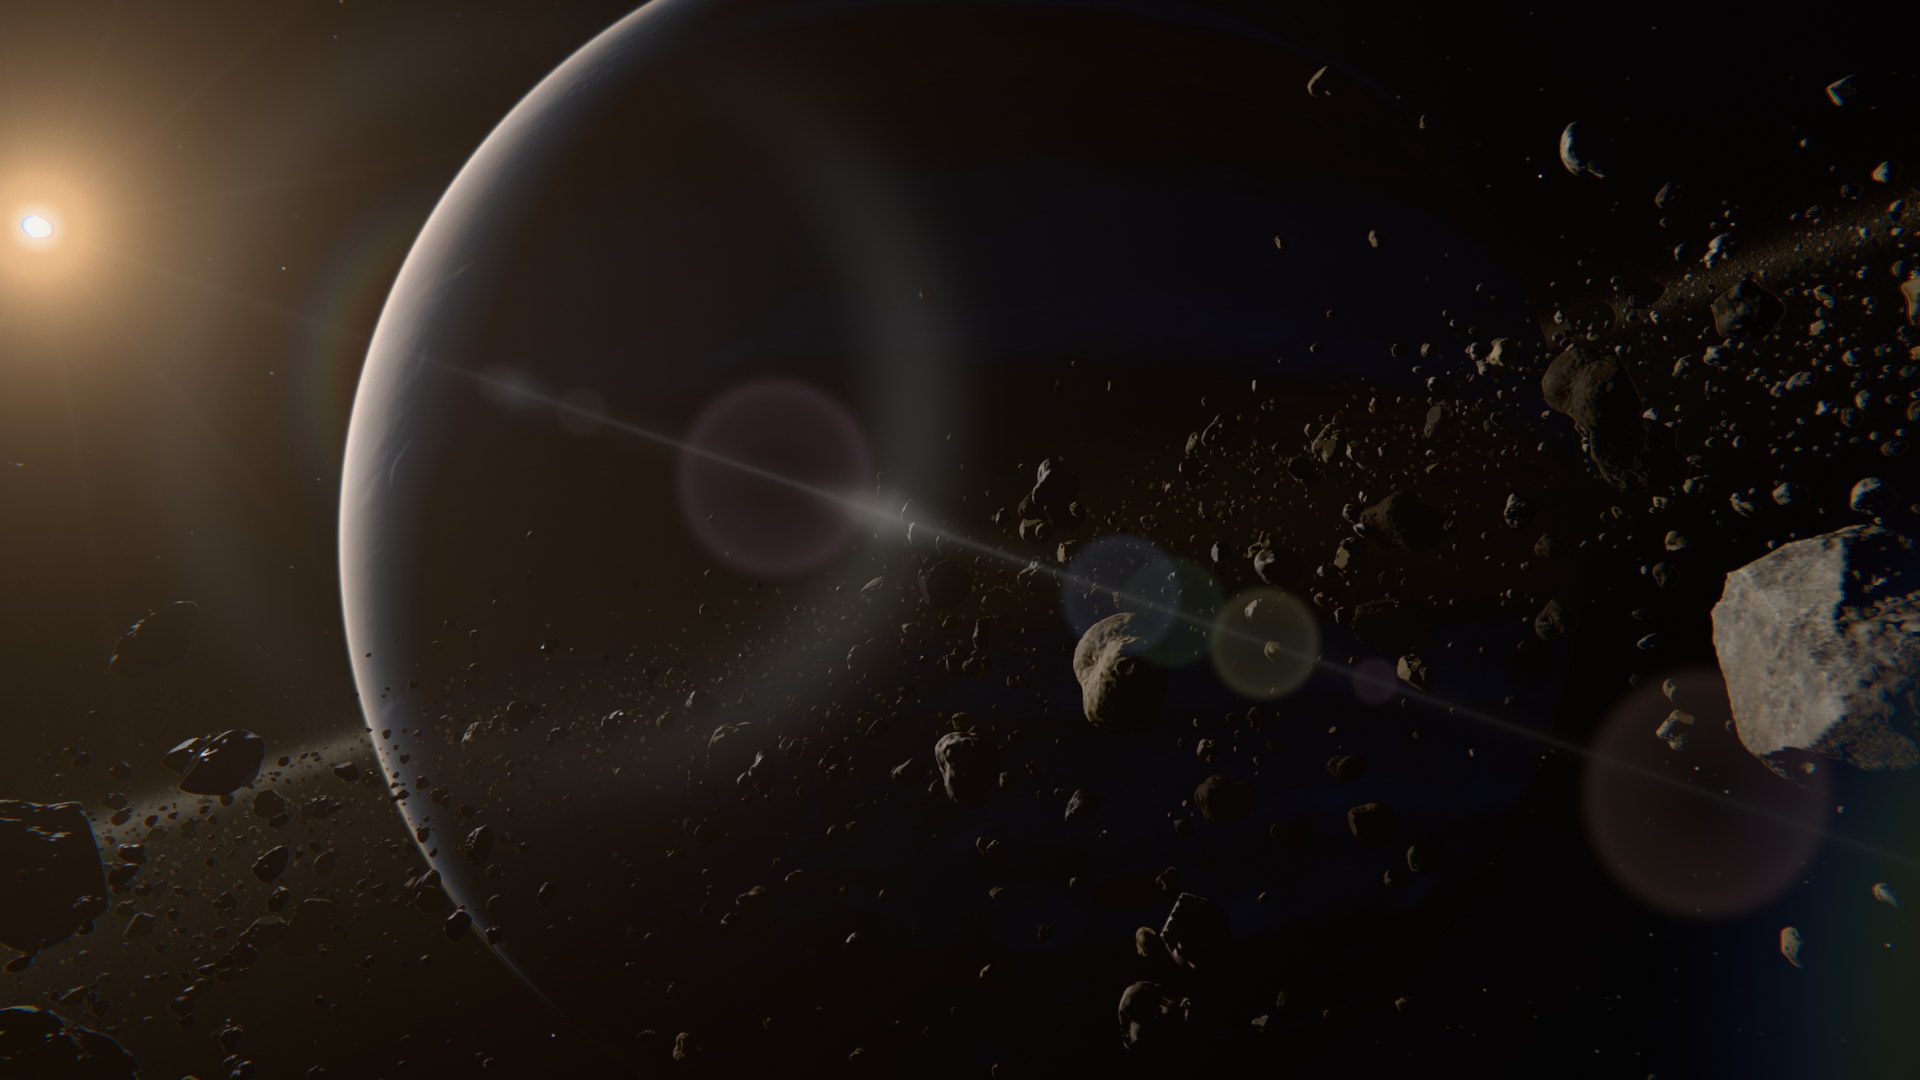
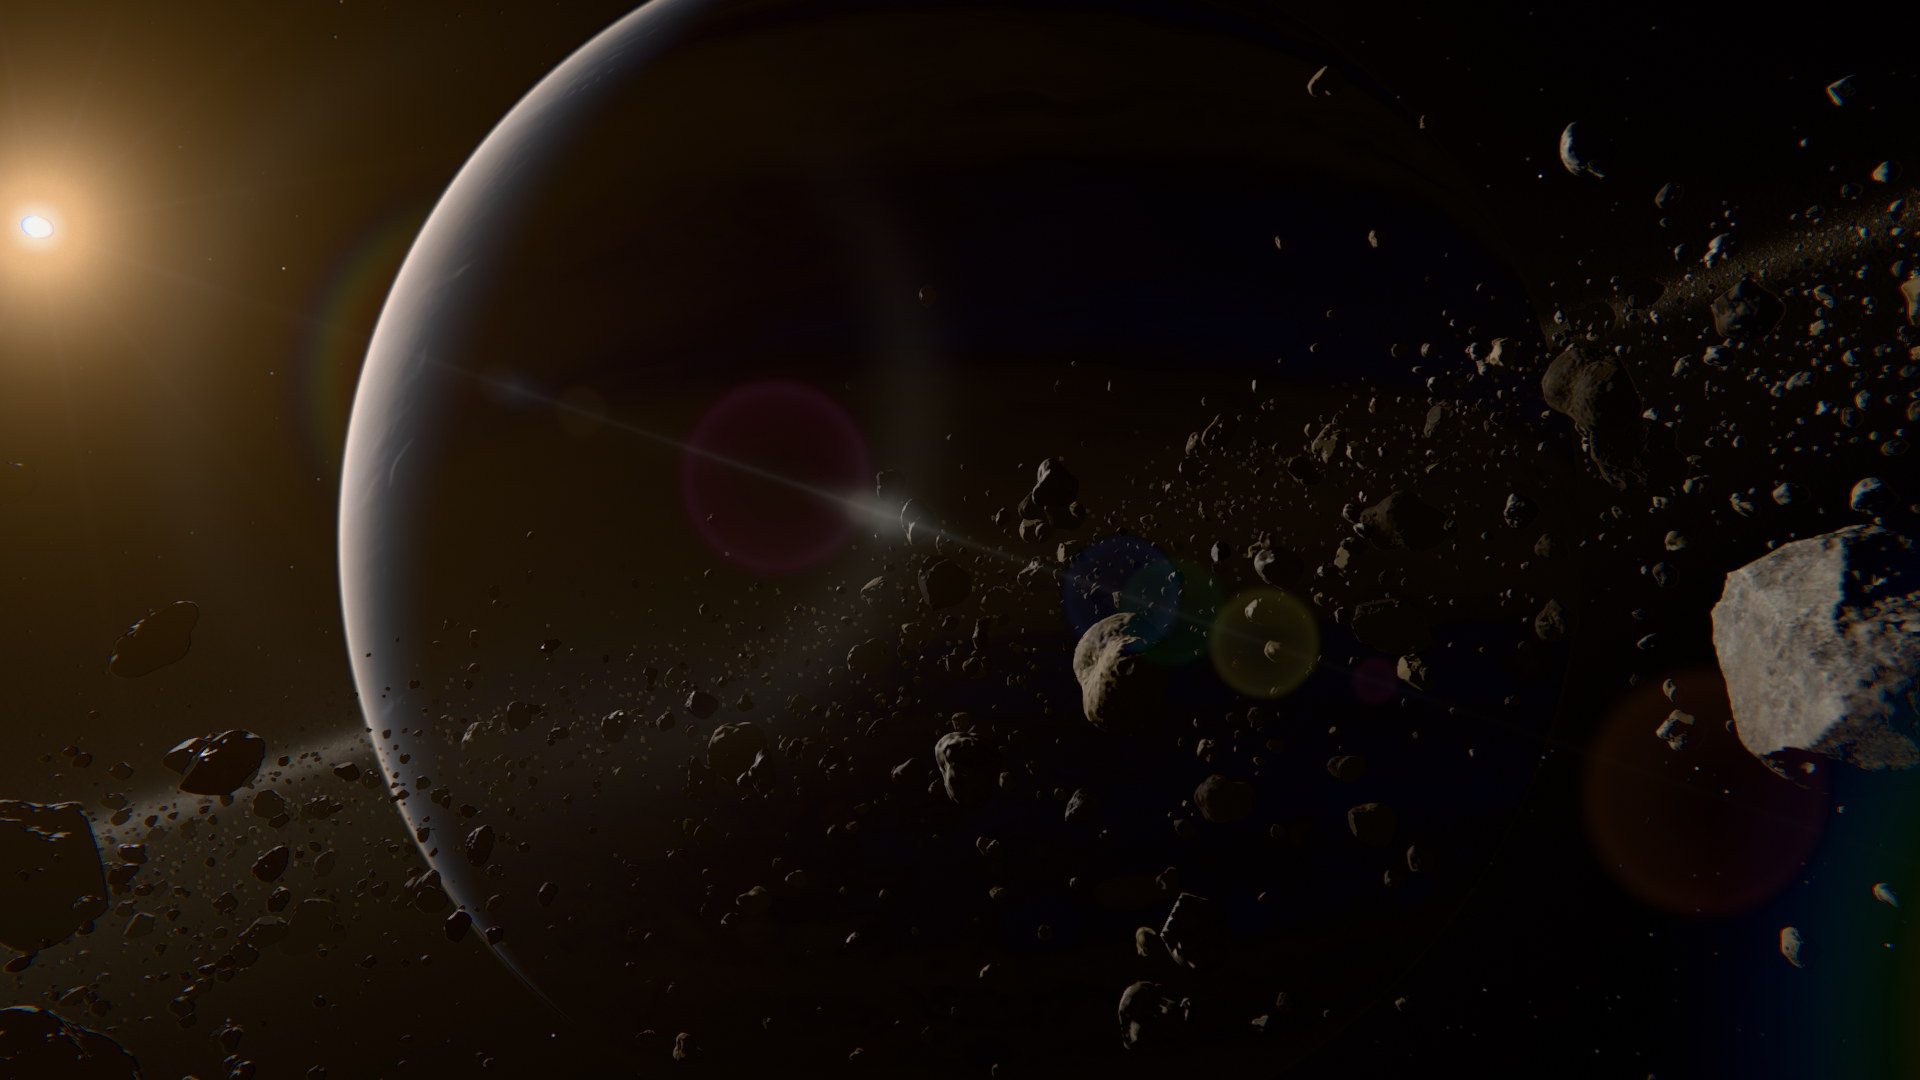
fix(post): put the lens veil back through the tone curve
Separating the veil from the neutral curve's black offset had stopped
the published curve from subtracting the sun's broad glare, its whole
purpose: the Earth's night side under the glare rose from a median of
8 display codes to 24 as a flat blue-grey under the city lights, and
the belt from 7 to 17 with the flare off. With the veil inside again
the night side measures as the Sep 11 screenshot did. README
screenshots re-rendered.

diff --git a/docs/DECISIONS.md b/docs/DECISIONS.md
@@ -216,3 +216,5 @@ demo now builds and renders on the Linux PC. Setup and repeatable commands are i
 - 2026-09-14: A Lens flare switch in Sun & lens (default on) turns the whole stack off for comparison: the C++ side zeroes every element's strength, skips the flare pass and sends a zero divisor so the composite does not read the stale target; the sun's glare stays, as it is the light itself rather than the lens.
 
 - 2026-09-14: The belt view had lost its contrast since the first screenshots (darkest percentile 0.7 to 8 display codes, median 7 to 26). A build-and-capture sweep over fifteen commits put nearly all of it on one step: the neutral curve's black offset factor going to 0.3 on Sep 13 (median 7 to 22), which stopped crushing the belt's dust haze; the lens halo and the flare stack added about two codes each, exposure and adaptation nothing at the median, the Milky Way within a code. The default returns to the published 1.0: the belt matches the old screenshot again and the giant's shadow side is crisp, at the cost of the Milky Way band, which the published subtraction nearly removes (0.7 keeps more of it with the belt still hazy); the Black offset slider covers the range for review. The other exposure constants became Tone panel controls so the trade can be made live: the meter key (0.18), the adaptation range (0.6 to 1.8) and the per-curve exposure trim (ACES 1, AgX 0.37, PBR Neutral 0.75, each curve keeping its own). The README screenshots are re-rendered at the new default.
+
+- 2026-09-14: The veil separation in the tone map is reverted. Taking the neutral curve's black offset from the scene alone and adding the lens veil after it had removed the creases under coloured flare bands, but it also stopped the published curve from subtracting the sun's broad glare, which is the flare subtraction the curve is for: on the Dawn view the Earth's night side under the glare rose from a median of 8 display codes to 24 and turned a flat blue-grey under the city lights, and the belt from 7 to 17 even with the flare off. With the veil back inside the curve at the published offset the night side measures as the Sep 11 screenshot did (darkest percentile 2.0 against 1.7, median 8.0 against 7.7, the same warm dark tint) and the belt's median is 8.7 against 7.3. The creases the separation addressed are the curve's own behaviour on faint coloured light and are much reduced at the published offset, where such bands are mostly crushed; the Saturation control in Sun & lens is the remaining knob. README screenshots re-rendered.
